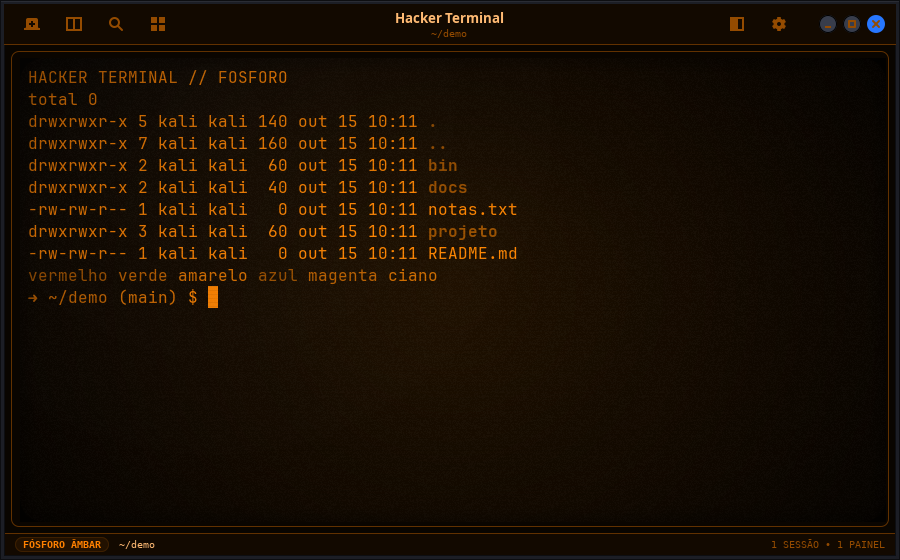
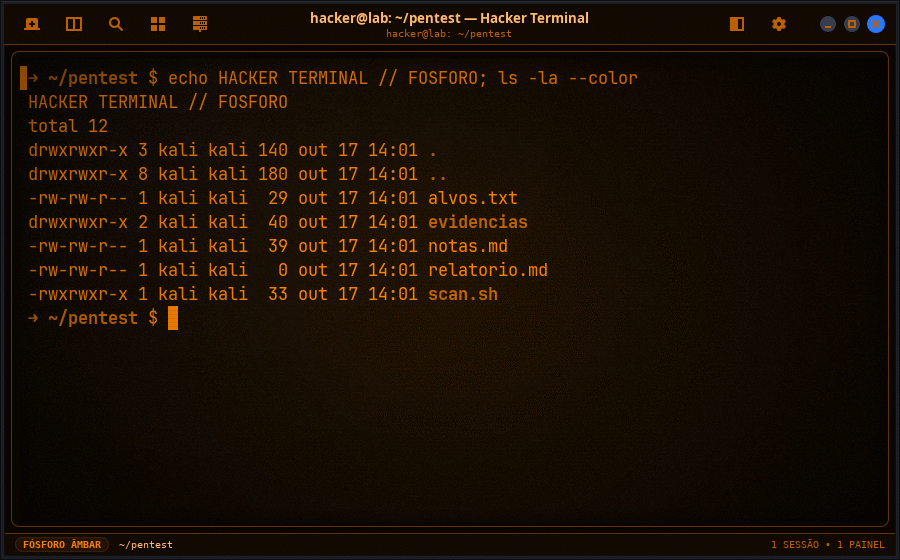
Refresh every screenshot and publish releases from tags
Screenshots: all twelve were retaken from the current app in a throwaway
home with a neutral prompt and title (hacker@lab), a real clone of this
repository and only real commands; two new ones show the command history
and the SSH manager. The heavy CRT captures are quantized to 256 colours
and every PNG is optimized (6.6 MB -> 2.7 MB). README alt texts now
describe what each picture really shows.

Releases: .github/workflows/release.yml runs on a v* tag. It checks that
the tag matches hackerterminal/constants.py, that CHANGELOG.md has the
section and that docs/index.html was regenerated, runs the full test
suite, builds the .deb, and publishes the release with notes taken from
the changelog and the tag's subject as title. "Run workflow" repeats it
for an existing tag, with a dry run (no publishing) by default. The
README explains the steps.

diff --git a/README.md b/README.md
@@ -24,7 +24,7 @@ GTK 3 · VTE · Python · sem Electron, sem navegador, sem telemetria
 
 <br>
 
-<img src="docs/screenshots/hero.png" alt="Hacker Terminal com o tema Matrix Green" width="100%">
+<img src="docs/screenshots/hero.png" alt="Hacker Terminal no tema Zero Day: um comando que falhou ganha a marca vermelha na margem e o código de saída na barra de status" width="100%">
 
 </div>
 
@@ -138,21 +138,21 @@ Por cima desse motor maduro, ele adiciona uma camada pensada para quem passa o d
 
 <br><br>
 
-**Temas clássicos** — Minimal Dark, Matrix Green, Cyberpunk Purple, Amber CRT e Ice Blue
+**Temas clássicos** — Matrix Green, Cyberpunk Purple e Ice Blue (além de Minimal Dark e Amber CRT)
 
-<img src="docs/screenshots/themes.png" alt="Os temas clássicos" width="100%">
+<img src="docs/screenshots/themes.png" alt="Os temas clássicos Matrix Green, Cyberpunk Purple e Ice Blue" width="100%">
 
 <br><br>
 
-**Grade de até 4 painéis por aba**
+**Grade de até 4 painéis por aba, cada um com seu nome**
 
-<img src="docs/screenshots/grid.png" alt="Grade 2x2 de painéis com o tema Fósforo Verde" width="100%">
+<img src="docs/screenshots/grid.png" alt="Grade 2x2 de painéis no tema Fósforo Verde, com os nomes projeto, alvos, notas e git" width="100%">
 
 <br><br>
 
 **Painéis divididos, abas e pesquisa no histórico**
 
-<img src="docs/screenshots/split.png" alt="Painéis divididos com pesquisa" width="100%">
+<img src="docs/screenshots/split.png" alt="Dois painéis lado a lado no tema Cyberpunk Purple, com a pesquisa destacando a palavra Verde" width="100%">
 
 <br><br>
 
@@ -567,6 +567,10 @@ Requer VTE 0.78 ou mais novo (`hacker-terminal --diagnose` informa). Desligue em
 
 ### Histórico de comandos
 
+<div align="center">
+<img src="docs/screenshots/history.png" alt="Diálogo do histórico de comandos com resultado, duração e pasta de cada comando; as falhas aparecem em vermelho" width="80%">
+</div>
+
 `Ctrl+Shift+H` (ou botão direito → **Histórico de comandos…**, ou a paleta) busca os comandos que você rodou **em todas as abas e janelas**, inclusive em sessões anteriores. Cada linha mostra se deu certo (✓) ou falhou (✗ e o código), quando foi, quanto durou e onde (pasta, nome do painel ou conexão SSH).
 
 - A busca considera todas as palavras, no comando, na pasta e no lugar: `nmap 10.0.0` acha o `nmap -sV 10.0.0.5` de ontem.
@@ -584,6 +588,10 @@ O histórico depende da integração com o shell, fica só neste computador em `
 `Ctrl+Shift+R` (ou botão direito → **Renomear painel…**) dá um nome a um painel, como “servidor web” ou “logs”. O nome aparece numa faixa no topo do painel (destacada no painel ativo), na aba e nos avisos. Os nomes e o tamanho de cada divisão são restaurados junto com a sessão.
 
 ### Conexões SSH
+
+<div align="center">
+<img src="docs/screenshots/ssh.png" alt="Gerenciador de conexões SSH com conexões salvas e hosts lidos do ~/.ssh/config" width="70%">
+</div>
 
 `Ctrl+Shift+S`, o botão ⇄ na barra ou a paleta abrem o gerenciador. Os hosts do seu `~/.ssh/config` aparecem automaticamente; em **Nova…** você salva destino, porta, chave e opções extras (por exemplo `-J bastiao`). Cada conexão abre numa aba própria, com 🔒 e o nome dela, e pode ter:
 
@@ -892,7 +900,7 @@ hacker-terminal/
 │   └── smoke.sh              # suíte completa: testes, instalação e .deb
 ├── packaging/                # build do .deb e metadados AppStream
 ├── assets/                   # ícone e arquivo .desktop
-├── docs/                     # capturas de tela e amostras de áudio
+├── docs/                     # site (GitHub Pages), capturas de tela e amostras de áudio
 ├── install.sh · run.sh · Makefile
 ```
 
@@ -904,6 +912,21 @@ make deb         # gera dist/hacker-terminal_<versão>_all.deb
 ```
 
 O projeto **não usa dependências do PyPI**: PyGObject, GTK, VTE e GStreamer vêm do sistema. A suíte roda o áudio em `fakesink` (sem fazer barulho), e o teste gráfico inclui eventos reais do X via `xdotool` para cobrir a rolagem. O GitHub Actions executa tudo a cada *push* e *pull request*.
+
+### Publicar uma versão
+
+O GitHub publica a release sozinho quando recebe uma tag `vX.Y.Z`:
+
+1. Atualize a versão em `hackerterminal/constants.py`, `tests/smoke.sh`, no metainfo (`packaging/*.metainfo.xml`) e a seção `## X.Y.Z` do `CHANGELOG.md`.
+2. Regere o site: `python3 packaging/build_site.py`.
+3. Faça o commit e envie a tag anotada — a primeira linha da mensagem vira o título da release:
+
+   ```bash
+   git tag -a v0.19.0 -m "Hacker Terminal 0.19.0 — o que mudou"
+   git push origin main v0.19.0
+   ```
+
+O fluxo [`release.yml`](.github/workflows/release.yml) confere se a tag, o `CHANGELOG.md` e o site batem com a versão, roda toda a suíte de testes, gera o `.deb` e publica a release com as notas do CHANGELOG. Se algo não bater, ele para antes de publicar. Para testar o fluxo sem publicar nada, use *Actions → release → Run workflow* com "Só testar" marcado.
 
 Contribuições são bem-vindas — leia o [CONTRIBUTING.md](CONTRIBUTING.md). O histórico de versões está no [CHANGELOG.md](CHANGELOG.md) e as decisões técnicas e correções no [AUDIT.md](AUDIT.md).
 
